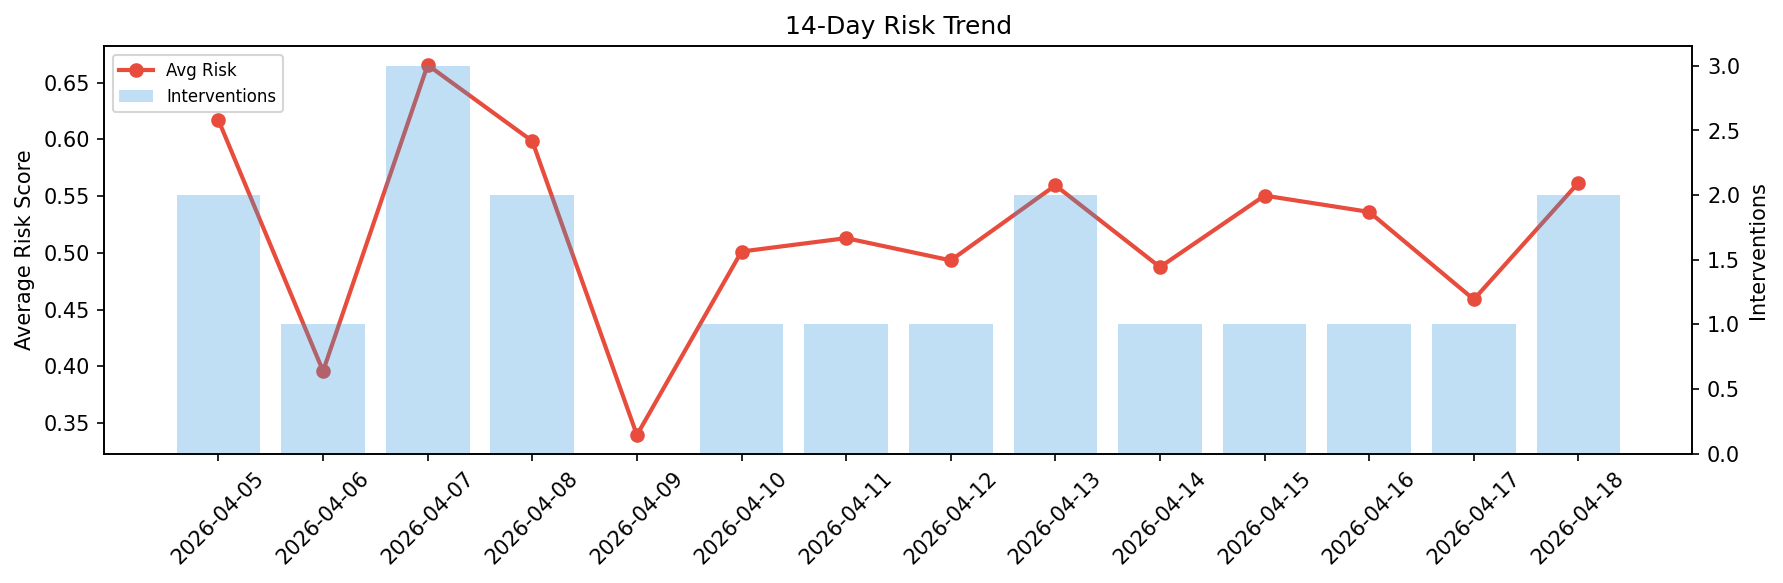
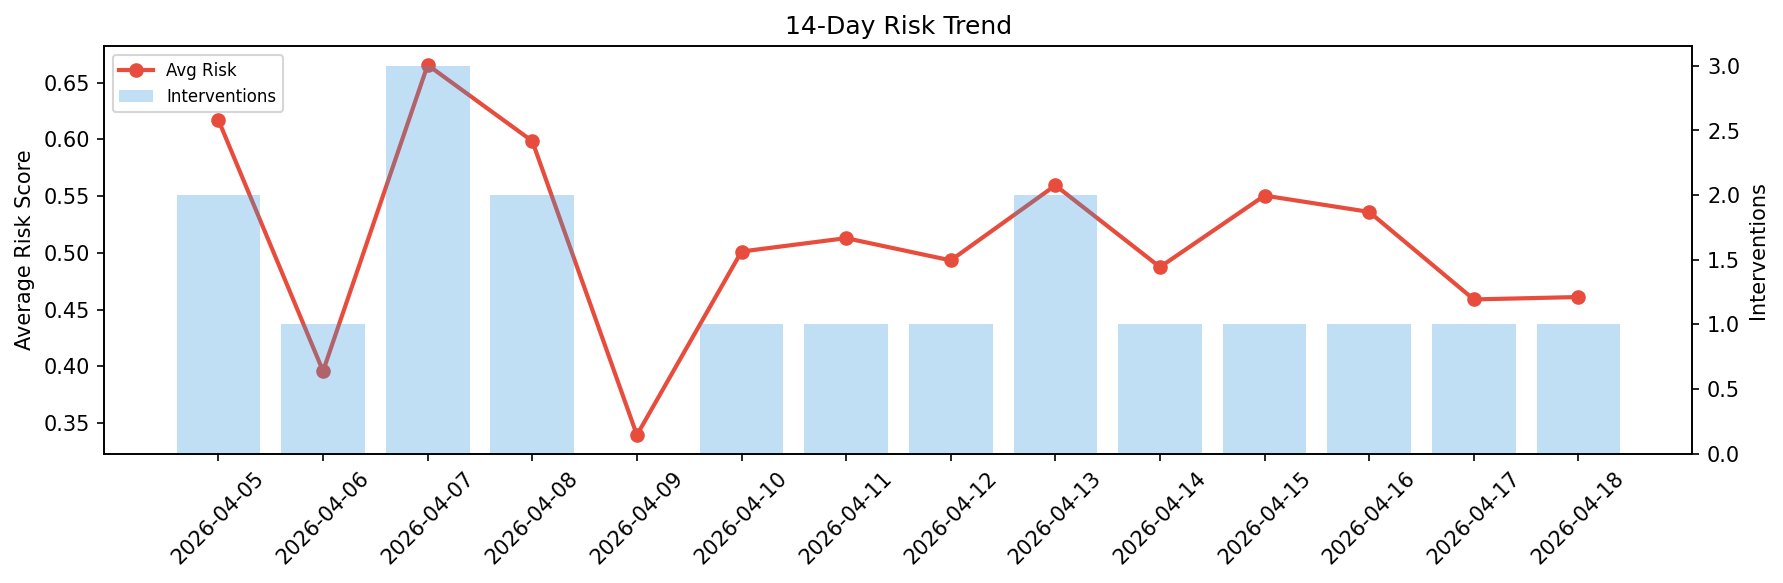
agent-improvement: daily cycle 2026-04-18T20:52

Changed region(s): [[0.8329, 0.3087, 0.9254, 0.5557]]

diff --git a/logs/2026-04-18.md b/logs/2026-04-18.md
@@ -1,6 +1,6 @@
 # Agent Improvement Report — 2026-04-18
 
-**Cycle ID:** `2c7f33a4` | **Avg Risk:** 0.5617 | **Interventions:** 2/4
+**Cycle ID:** `9043e62e` | **Avg Risk:** 0.461 | **Interventions:** 1/4
 
 ![Dashboard](2026-04-18_dashboard.png)
 
@@ -10,18 +10,18 @@
 
 | Domain | Risk Score | Decision | Alerts |
 |--------|-----------|----------|--------|
-| code_review | 0.6589 | intervene | complexity |
-| incident_response | 0.5606 | monitor | severity |
-| data_pipeline | 0.6054 | intervene | volume_anomaly |
-| deployment | 0.422 | monitor | none |
+| code_review | 0.363 | monitor | coverage |
+| incident_response | 0.603 | intervene | mttr |
+| data_pipeline | 0.4181 | monitor | volume_anomaly |
+| deployment | 0.4599 | monitor | latency_p99 |
 
 ## Delta vs Yesterday
 
 | Domain | Today | Yesterday | Change |
 |--------|-------|-----------|--------|
-| code_review | 0.6589 | 0.6327 | 📈 4.1% |
-| incident_response | 0.5606 | 0.3795 | 📈 47.7% |
-| data_pipeline | 0.6054 | 0.3673 | 📈 64.8% |
-| deployment | 0.422 | 0.4563 | 📉 -7.5% |
+| code_review | 0.363 | 0.6327 | 📉 -42.6% |
+| incident_response | 0.603 | 0.3795 | 📈 58.9% |
+| data_pipeline | 0.4181 | 0.3673 | 📈 13.8% |
+| deployment | 0.4599 | 0.4563 | 📈 0.8% |
 
-**Refinement:** `{'adjustment': 'maintain', 'trend': 'improving', 'window': 4}`
+**Refinement:** `{'adjustment': 'tighten_thresholds', 'trend': 'degrading', 'window': 4}`
